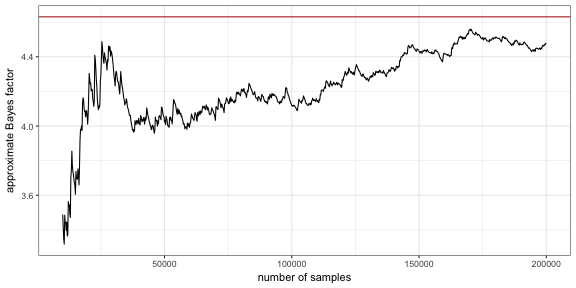
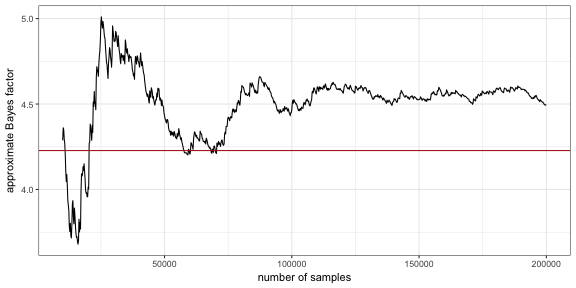
BF comp post final

diff --git a/_posts/2017-07-07-BF_computation.md b/_posts/2017-07-07-BF_computation.md
@@ -242,7 +242,7 @@ paste0("Approximate BF in favor of complex model (Savage-Dickey): ",
 
 
 {% highlight text %}
-## [1] "Approximate BF in favor of complex model (Savage-Dickey): 4.631"
+## [1] "Approximate BF in favor of complex model (Savage-Dickey): 4.228"
 {% endhighlight %}
  
 In sum, the Savage-Dickey method is an elegant and practical method for computing (or approximating, if based on sampling) Bayes factors for properly nested models. It is particularly useful when the nested model fixes just a small number of parameters that are free in the nesting model. The method needs to go through two bottlenecks that can introduce imprecision in an estimate: first, we may have to rely on posterior samples; second, we may have to rely an numerical approximation of a point-density from the samples.
@@ -347,7 +347,7 @@ paste0("Approximate BF in favor of complex model (naive MC): ",
 
 
 {% highlight text %}
-## [1] "Approximate BF in favor of complex model (naive MC): 4.395"
+## [1] "Approximate BF in favor of complex model (naive MC): 4.348"
 {% endhighlight %}
  
 It is diagnostic to see the temporal development of the Bayes factor approximation as more and more samples are taken. This is plotted here, comparing it also to the result from the Savage-Dickey method (the red line).
@@ -455,7 +455,7 @@ paste0("BF in favor of complex model (transcendental): ",
 
 
 {% highlight text %}
-## [1] "BF in favor of complex model (transcendental): 5.062"
+## [1] "BF in favor of complex model (transcendental): 4.871"
 {% endhighlight %}
  
 This method of estimation can be imprecise, especially when one model is much better than another. The intuitive reason is that whenever the MCMC chain sets $$m=i$$, the parameters for model $$j$$ are free to meander wherever they like. This, in turn, makes it less likely that a proposal with $$m=j$$ is accepted. One possible solution to this is to use so-called pseudo-priors: set the priors for parameters of model $$j$$ to some function that resembles their posterior distribution when $$m=i$$, but use the actual priors when $$m=j$$.
@@ -597,7 +597,7 @@ paste0("BF in favor of complex model (supermodels): ",
 
 
 {% highlight text %}
-## [1] "BF in favor of complex model (supermodels): 4.161"
+## [1] "BF in favor of complex model (supermodels): 4.09"
 {% endhighlight %}
  
 ### Summary
